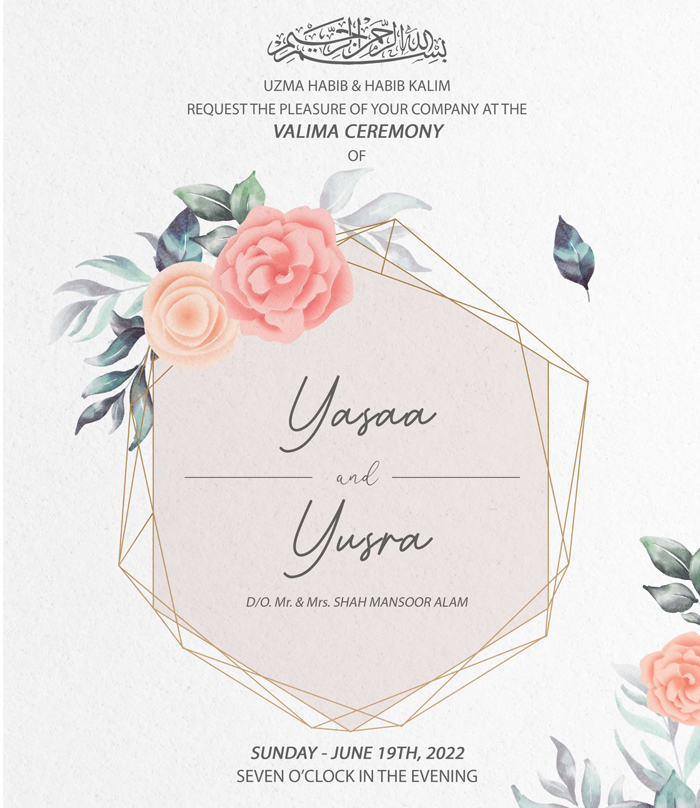
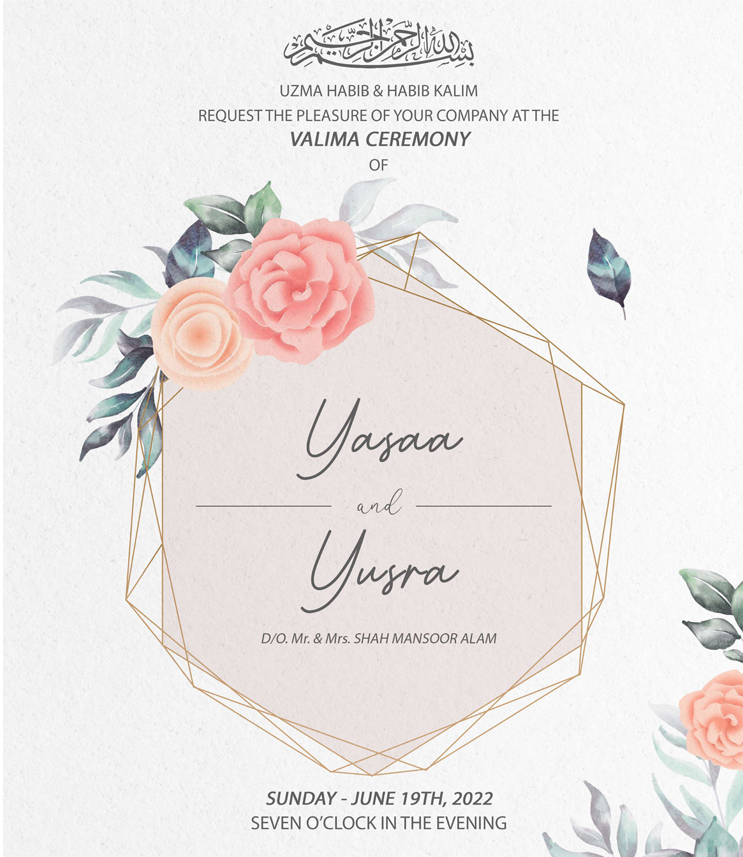
Adding files

diff --git a/index.html b/index.html
@@ -5,36 +5,36 @@
 </head>
 <body bgcolor="#000000" leftmargin="0" topmargin="0" marginwidth="0" marginheight="0">
 <!-- Save for Web Slices (Reception Card) -->
-<table id="Table_01" width="701" height="990" border="0" cellpadding="0" cellspacing="0" align=center>
+<table id="Table_01" width="744" height="1050" border="0" cellpadding="0" cellspacing="0" align=center>
 	<tr>
 		<td colspan="3" bgcolor="#000000">
-			<img src="images/Reception-Card_01.jpg" width="700" height="808" alt=""></td>
+			<img src="images/Reception-Card_01.jpg" width="743" height="857" alt=""></td>
 		<td>
-			<img src="images/spacer.gif" width="1" height="808" alt=""></td>
+			<img src="images/spacer.gif" width="1" height="857" alt=""></td>
 	</tr>
 	<tr>
 		<td rowspan="2" bgcolor="#000000">
-			<img src="images/Reception-Card_02.jpg" width="262" height="113" alt=""></td>
+			<img src="images/Reception-Card_02.jpg" width="278" height="119" alt=""></td>
 		<td bgcolor="#000000">
 			<a href="https://goo.gl/maps/FQpSR3jDmJVNz4Vn8">
-				<img src="images/Shalimar-Banquets-Location.jpg" width="199" height="78" border="0" alt=""></a></td>
+				<img src="images/Shalimar-Banquets-Location.jpg" width="212" height="83" border="0" alt=""></a></td>
 		<td rowspan="3" bgcolor="#000000">
-			<img src="images/Reception-Card_04.jpg" width="239" height="182" alt=""></td>
+			<img src="images/Reception-Card_04.jpg" width="253" height="193" alt=""></td>
 		<td>
-			<img src="images/spacer.gif" width="1" height="78" alt=""></td>
+			<img src="images/spacer.gif" width="1" height="83" alt=""></td>
 	</tr>
 	<tr>
 		<td rowspan="2" bgcolor="#000000">
-			<img src="images/Reception-Card_05.jpg" width="199" height="104" alt=""></td>
+			<img src="images/Reception-Card_05.jpg" width="212" height="110" alt=""></td>
 		<td>
-			<img src="images/spacer.gif" width="1" height="35" alt=""></td>
+			<img src="images/spacer.gif" width="1" height="36" alt=""></td>
 	</tr>
 	<tr>
 		<td bgcolor="#000000">
 			<a href="https://www.theknot.com/yusraandyasaa">
-				<img src="images/RSVP-Link.jpg" width="262" height="69" border="0" alt=""></a></td>
+				<img src="images/RSVP-Link.jpg" width="278" height="74" border="0" alt=""></a></td>
 		<td>
-			<img src="images/spacer.gif" width="1" height="69" alt=""></td>
+			<img src="images/spacer.gif" width="1" height="74" alt=""></td>
 	</tr>
 </table>
 <!-- End Save for Web Slices -->
